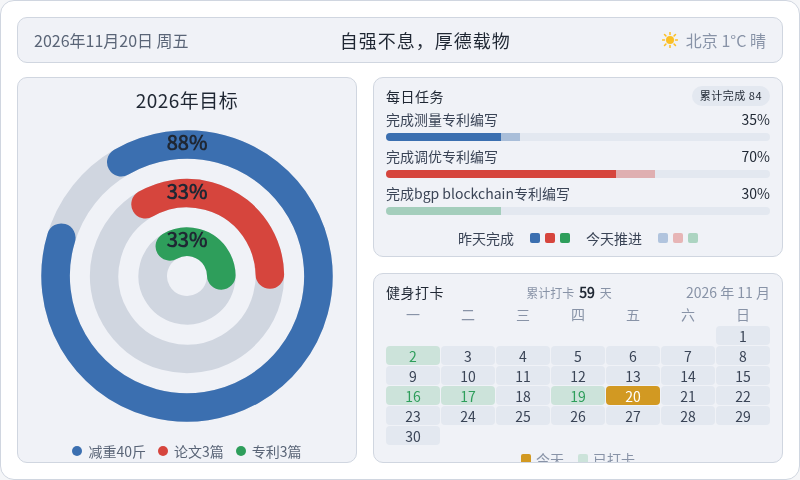
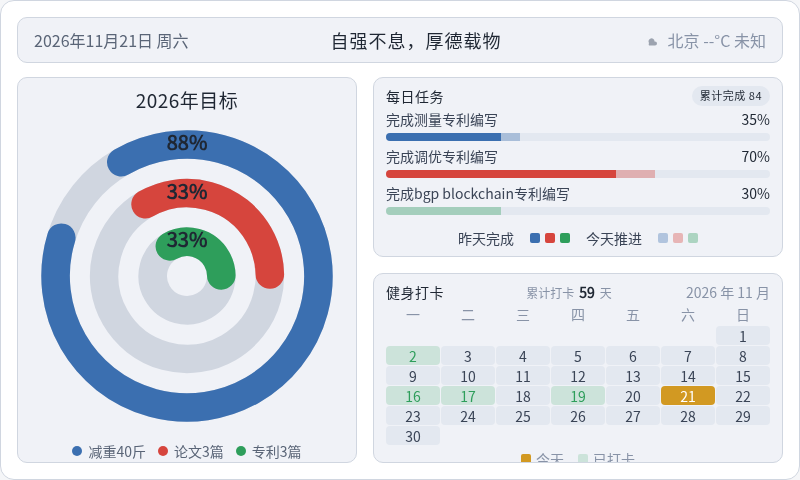
chore: 每日看板刷新 2026-11-21

diff --git a/output/dashboard/dashboard.html b/output/dashboard/dashboard.html
@@ -185,11 +185,11 @@
 <body>
   <div class="dash">
     <div class="topbar">
-      <div class="tb-date" id="tbDate">2026年11月20日 周五</div>
+      <div class="tb-date" id="tbDate">2026年11月21日 周六</div>
       <div class="tb-slogan">自强不息，厚德载物</div>
       <div class="tb-weather">
-        <svg width="16" height="16" viewBox="0 0 16 16" aria-hidden="true"><circle cx="8" cy="8" r="4" fill="#fbbf24"/><g stroke="#fbbf24" stroke-width="1.5" stroke-linecap="round"><line x1="8" y1="0.5" x2="8" y2="2.5"/><line x1="8" y1="13.5" x2="8" y2="15.5"/><line x1="0.5" y1="8" x2="2.5" y2="8"/><line x1="13.5" y1="8" x2="15.5" y2="8"/><line x1="2.5" y1="2.5" x2="3.9" y2="3.9"/><line x1="12.1" y1="12.1" x2="13.5" y2="13.5"/><line x1="13.5" y1="2.5" x2="12.1" y2="3.9"/><line x1="3.9" y1="12.1" x2="2.5" y2="13.5"/></g></svg>
-        <span>北京 1°C 晴</span>
+        <svg width="16" height="16" viewBox="0 0 16 16" aria-hidden="true"><path d="M5 11 a3 3 0 1 1 5.5 -1.5 h0.5 a2 2 0 1 1 0 4 H5 a2.5 2.5 0 0 1 0 -2.5z" fill="#9ca3af"/></svg>
+        <span>北京 --°C 未知</span>
       </div>
     </div>
     <div class="content">
@@ -248,7 +248,7 @@
           <span class="cal-date">2026 年 11 月</span>
         </div>
         <div class="cal-grid wk"><span>一</span><span>二</span><span>三</span><span>四</span><span>五</span><span>六</span><span>日</span></div>
-        <div class="cal-grid"><span class="cell empty"></span><span class="cell empty"></span><span class="cell empty"></span><span class="cell empty"></span><span class="cell empty"></span><span class="cell empty"></span><span class="cell" style="background:#e3e8f0;color:#3a4456">1</span><span class="cell done" style="background:rgba(46,158,91,0.18);color:#2e9e5b">2</span><span class="cell" style="background:#e3e8f0;color:#3a4456">3</span><span class="cell" style="background:#e3e8f0;color:#3a4456">4</span><span class="cell" style="background:#e3e8f0;color:#3a4456">5</span><span class="cell" style="background:#e3e8f0;color:#3a4456">6</span><span class="cell" style="background:#e3e8f0;color:#3a4456">7</span><span class="cell" style="background:#e3e8f0;color:#3a4456">8</span><span class="cell" style="background:#e3e8f0;color:#3a4456">9</span><span class="cell" style="background:#e3e8f0;color:#3a4456">10</span><span class="cell" style="background:#e3e8f0;color:#3a4456">11</span><span class="cell" style="background:#e3e8f0;color:#3a4456">12</span><span class="cell" style="background:#e3e8f0;color:#3a4456">13</span><span class="cell" style="background:#e3e8f0;color:#3a4456">14</span><span class="cell" style="background:#e3e8f0;color:#3a4456">15</span><span class="cell done" style="background:rgba(46,158,91,0.18);color:#2e9e5b">16</span><span class="cell done" style="background:rgba(46,158,91,0.18);color:#2e9e5b">17</span><span class="cell" style="background:#e3e8f0;color:#3a4456">18</span><span class="cell done" style="background:rgba(46,158,91,0.18);color:#2e9e5b">19</span><span class="cell today" style="background:#d29922;color:#ffffff">20</span><span class="cell" style="background:#e3e8f0;color:#3a4456">21</span><span class="cell" style="background:#e3e8f0;color:#3a4456">22</span><span class="cell" style="background:#e3e8f0;color:#3a4456">23</span><span class="cell" style="background:#e3e8f0;color:#3a4456">24</span><span class="cell" style="background:#e3e8f0;color:#3a4456">25</span><span class="cell" style="background:#e3e8f0;color:#3a4456">26</span><span class="cell" style="background:#e3e8f0;color:#3a4456">27</span><span class="cell" style="background:#e3e8f0;color:#3a4456">28</span><span class="cell" style="background:#e3e8f0;color:#3a4456">29</span><span class="cell" style="background:#e3e8f0;color:#3a4456">30</span></div>
+        <div class="cal-grid"><span class="cell empty"></span><span class="cell empty"></span><span class="cell empty"></span><span class="cell empty"></span><span class="cell empty"></span><span class="cell empty"></span><span class="cell" style="background:#e3e8f0;color:#3a4456">1</span><span class="cell done" style="background:rgba(46,158,91,0.18);color:#2e9e5b">2</span><span class="cell" style="background:#e3e8f0;color:#3a4456">3</span><span class="cell" style="background:#e3e8f0;color:#3a4456">4</span><span class="cell" style="background:#e3e8f0;color:#3a4456">5</span><span class="cell" style="background:#e3e8f0;color:#3a4456">6</span><span class="cell" style="background:#e3e8f0;color:#3a4456">7</span><span class="cell" style="background:#e3e8f0;color:#3a4456">8</span><span class="cell" style="background:#e3e8f0;color:#3a4456">9</span><span class="cell" style="background:#e3e8f0;color:#3a4456">10</span><span class="cell" style="background:#e3e8f0;color:#3a4456">11</span><span class="cell" style="background:#e3e8f0;color:#3a4456">12</span><span class="cell" style="background:#e3e8f0;color:#3a4456">13</span><span class="cell" style="background:#e3e8f0;color:#3a4456">14</span><span class="cell" style="background:#e3e8f0;color:#3a4456">15</span><span class="cell done" style="background:rgba(46,158,91,0.18);color:#2e9e5b">16</span><span class="cell done" style="background:rgba(46,158,91,0.18);color:#2e9e5b">17</span><span class="cell" style="background:#e3e8f0;color:#3a4456">18</span><span class="cell done" style="background:rgba(46,158,91,0.18);color:#2e9e5b">19</span><span class="cell" style="background:#e3e8f0;color:#3a4456">20</span><span class="cell today" style="background:#d29922;color:#ffffff">21</span><span class="cell" style="background:#e3e8f0;color:#3a4456">22</span><span class="cell" style="background:#e3e8f0;color:#3a4456">23</span><span class="cell" style="background:#e3e8f0;color:#3a4456">24</span><span class="cell" style="background:#e3e8f0;color:#3a4456">25</span><span class="cell" style="background:#e3e8f0;color:#3a4456">26</span><span class="cell" style="background:#e3e8f0;color:#3a4456">27</span><span class="cell" style="background:#e3e8f0;color:#3a4456">28</span><span class="cell" style="background:#e3e8f0;color:#3a4456">29</span><span class="cell" style="background:#e3e8f0;color:#3a4456">30</span></div>
         <div class="cal-legend">
           <span style="color:#8893a7"><i class="sw" style="background:#d29922"></i>今天</span>
           <span style="color:#8893a7"><i class="sw" style="background:rgba(46,158,91,0.18)"></i>已打卡</span>
